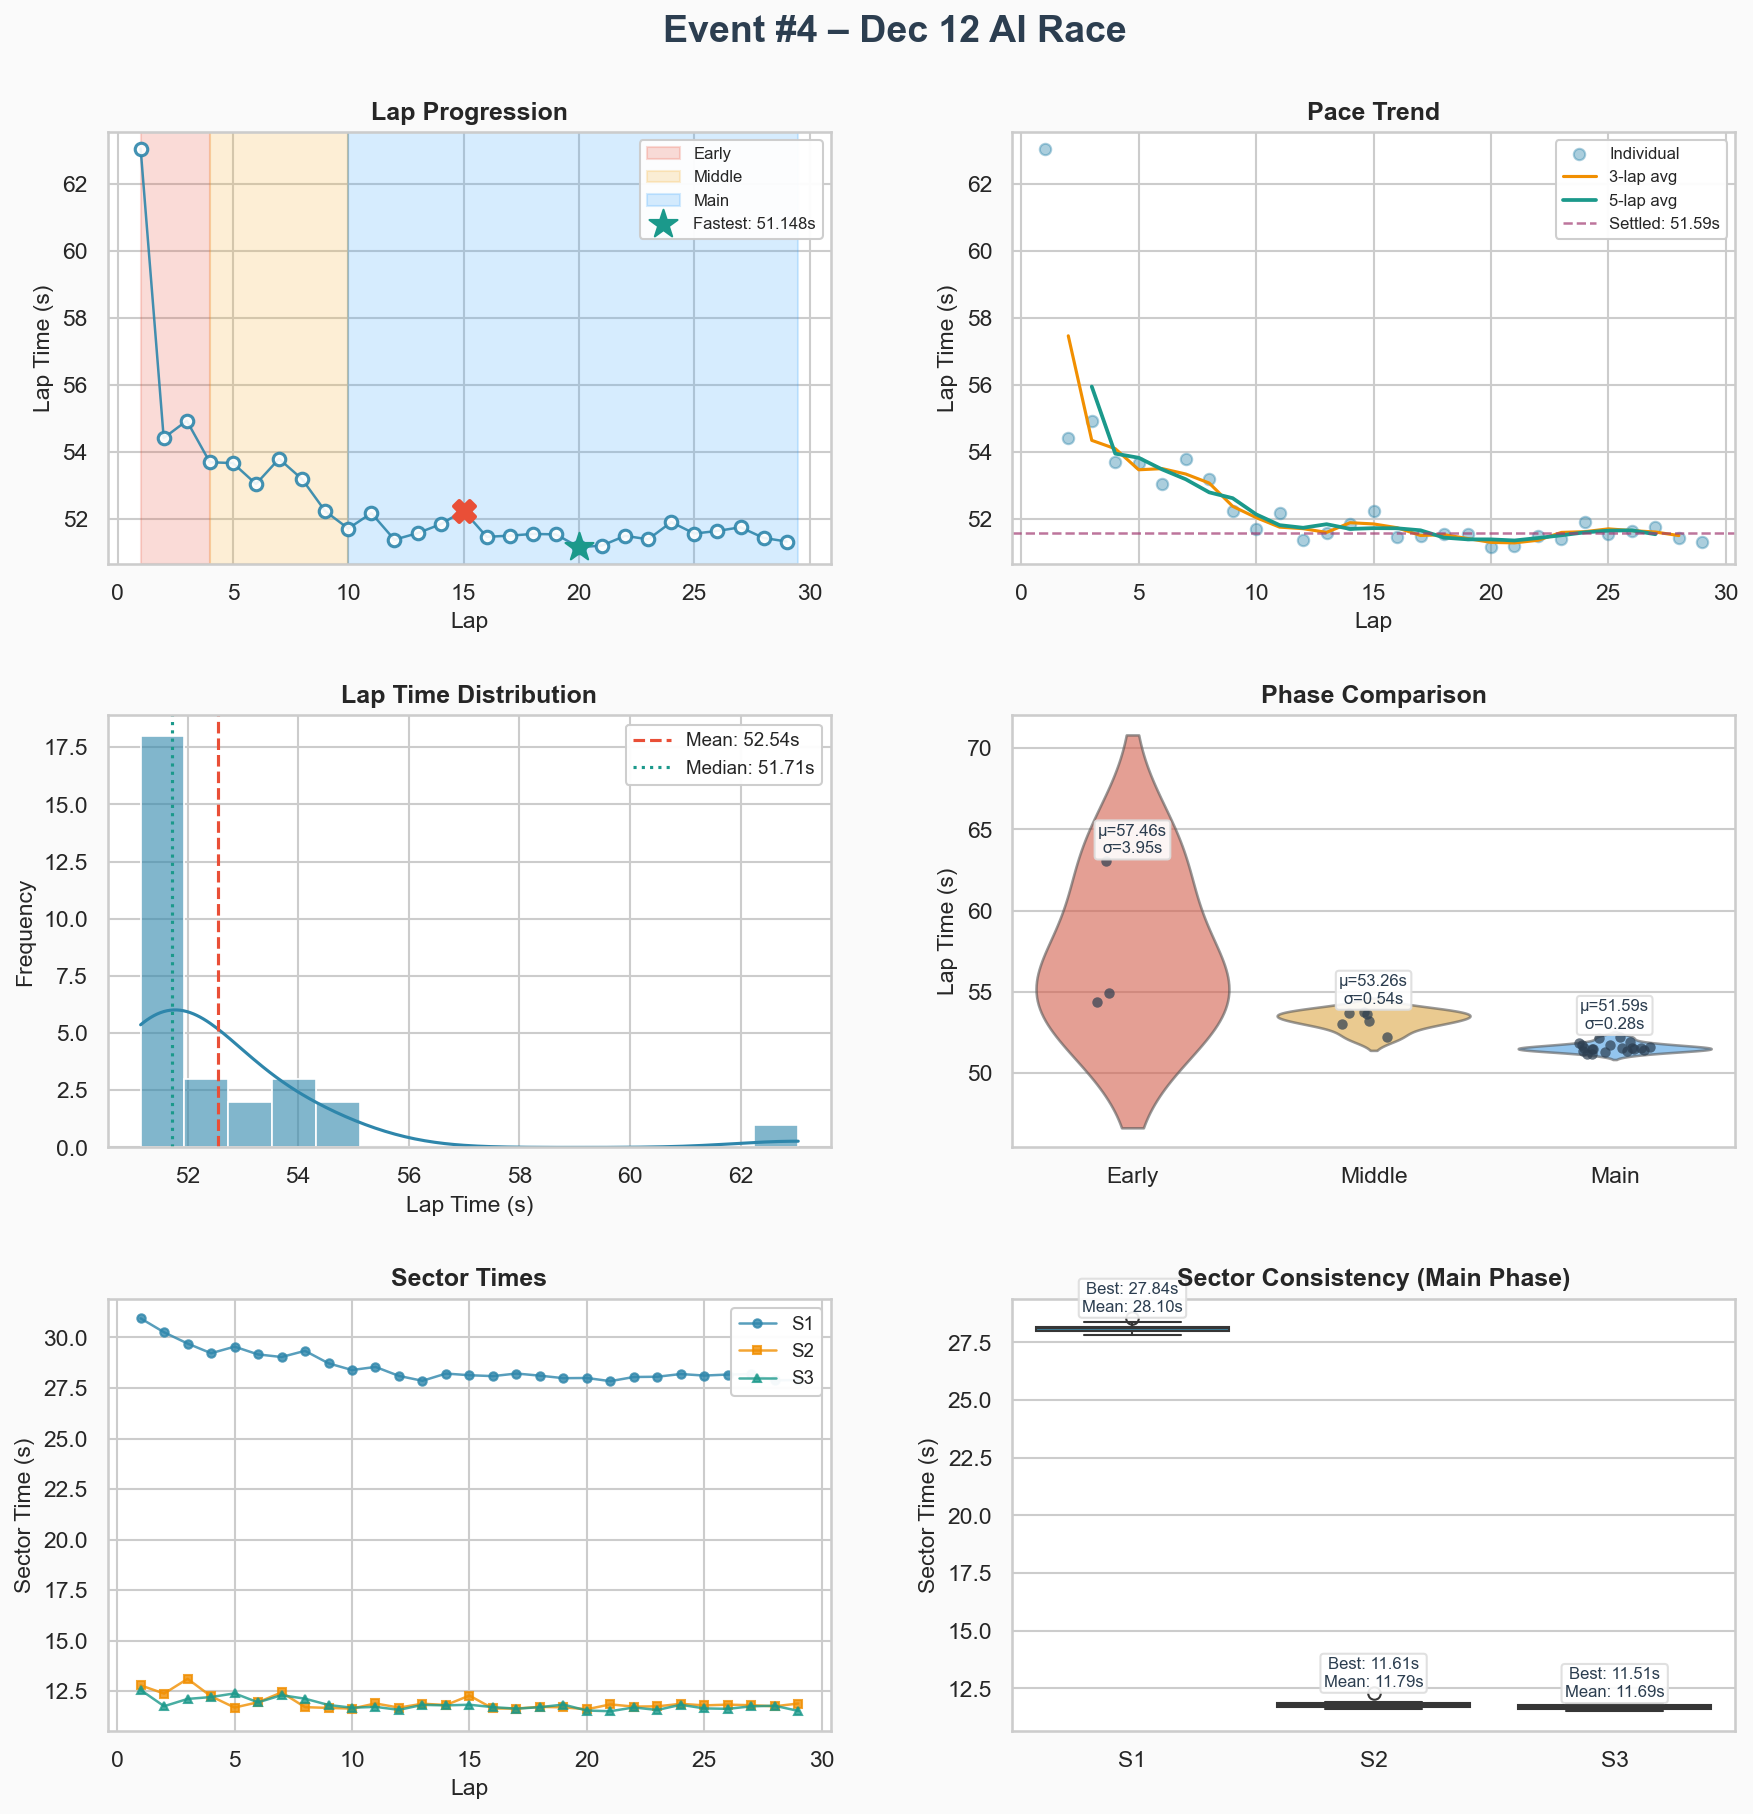
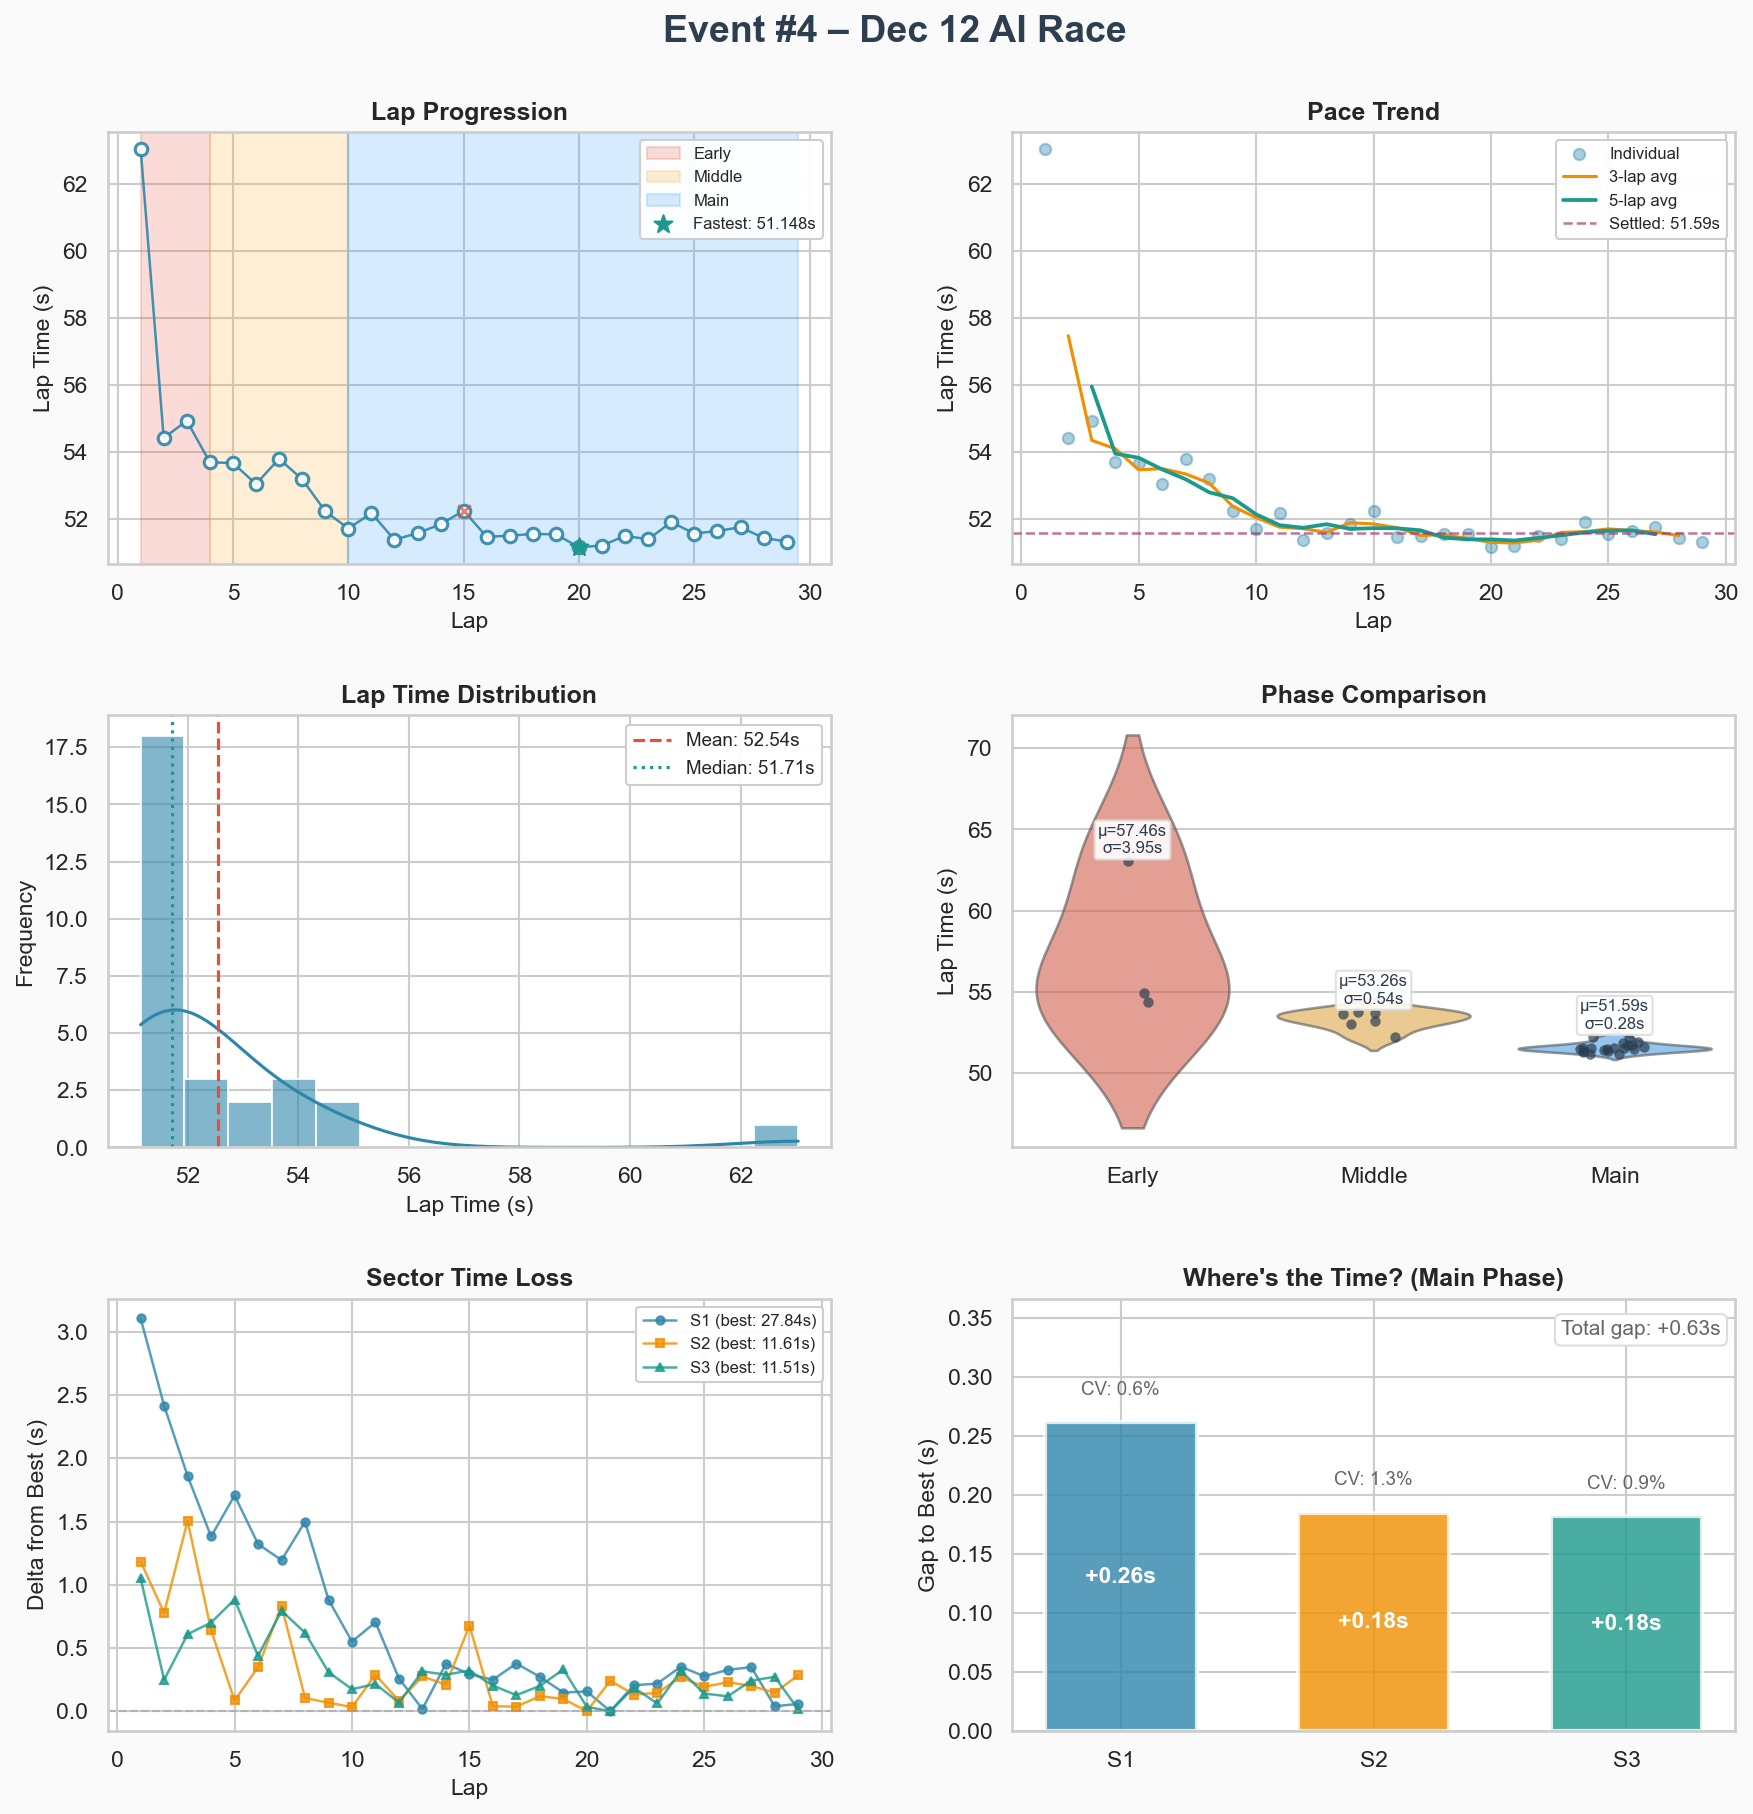
Enhance event visualization: refine lap highlighting for clarity, adjust sector analysis to display delta from best times, and improve sector consistency metrics with visual annotations. Update plot titles and labels for better understanding of performance insights.

diff --git a/tools/visualize_event.py b/tools/visualize_event.py
@@ -157,16 +157,16 @@ def create_event_visualization(
     ax1.plot(laps, times, 'o-', color=COLORS['primary'], linewidth=1.2, 
              markersize=6, markerfacecolor='white', markeredgewidth=1.5, alpha=0.9)
     
-    # Highlight fastest lap
+    # Highlight fastest lap (subtle)
     ax1.scatter([fastest_lap], [times[fastest_idx]], color=COLORS['fastest'], 
-               s=200, zorder=5, marker='*', label=f'Fastest: {times[fastest_idx]:.3f}s')
+               s=80, zorder=5, marker='*', label=f'Fastest: {times[fastest_idx]:.3f}s')
     
-    # Highlight dirty laps
+    # Highlight dirty/off-track laps (subtle)
     for lap in dirty_laps:
         idx = np.where(laps == lap)[0]
         if len(idx) > 0:
-            ax1.scatter([lap], [times[idx[0]]], color=COLORS['dirty'], s=100, 
-                       zorder=4, marker='X', linewidths=2)
+            ax1.scatter([lap], [times[idx[0]]], color=COLORS['dirty'], s=35, 
+                       zorder=4, marker='x', linewidths=1.5, alpha=0.7)
     
     ax1.set_xlabel('Lap', fontsize=11)
     ax1.set_ylabel('Lap Time (s)', fontsize=11)
@@ -265,51 +265,86 @@ def create_event_visualization(
     # PLOT 5 & 6: Sector Analysis (if available)
     # ═══════════════════════════════════════════════════════════════════════════
     if has_sectors:
-        # Sector times over laps
+        # Sector delta from best - all on same scale for comparison
         ax5 = fig.add_subplot(gs[2, 0])
         ax5.set_facecolor('#FFFFFF')
         
-        ax5.plot(laps, df['Sector 1'].values, 'o-', color=COLORS['s1'], 
-                linewidth=1.2, markersize=4, label='S1', alpha=0.8)
-        ax5.plot(laps, df['Sector 2'].values, 's-', color=COLORS['s2'], 
-                linewidth=1.2, markersize=4, label='S2', alpha=0.8)
-        ax5.plot(laps, df['Sector 3'].values, '^-', color=COLORS['s3'], 
-                linewidth=1.2, markersize=4, label='S3', alpha=0.8)
+        # Calculate delta from best for each sector
+        s1_best = df['Sector 1'].min()
+        s2_best = df['Sector 2'].min()
+        s3_best = df['Sector 3'].min()
+        
+        s1_delta = df['Sector 1'].values - s1_best
+        s2_delta = df['Sector 2'].values - s2_best
+        s3_delta = df['Sector 3'].values - s3_best
+        
+        ax5.plot(laps, s1_delta, 'o-', color=COLORS['s1'], 
+                linewidth=1.2, markersize=4, label=f'S1 (best: {s1_best:.2f}s)', alpha=0.8)
+        ax5.plot(laps, s2_delta, 's-', color=COLORS['s2'], 
+                linewidth=1.2, markersize=4, label=f'S2 (best: {s2_best:.2f}s)', alpha=0.8)
+        ax5.plot(laps, s3_delta, '^-', color=COLORS['s3'], 
+                linewidth=1.2, markersize=4, label=f'S3 (best: {s3_best:.2f}s)', alpha=0.8)
+        
+        # Add zero line (= personal best)
+        ax5.axhline(0, color='#999', linestyle='--', linewidth=1, alpha=0.5)
         
         ax5.set_xlabel('Lap', fontsize=11)
-        ax5.set_ylabel('Sector Time (s)', fontsize=11)
-        ax5.set_title('Sector Times', fontsize=12, fontweight='bold')
-        ax5.legend(loc='upper right', fontsize=9, framealpha=0.95)
+        ax5.set_ylabel('Delta from Best (s)', fontsize=11)
+        ax5.set_title('Sector Time Loss', fontsize=12, fontweight='bold')
+        ax5.legend(loc='upper right', fontsize=8, framealpha=0.95)
         
-        # Sector consistency (box plots)
+        # Sector Focus Analysis - "Where's the Time?"
         ax6 = fig.add_subplot(gs[2, 1])
         ax6.set_facecolor('#FFFFFF')
         
         # Use main phase for sector analysis
         main_df = df.iloc[middle_end:].copy() if middle_end < len(df) else df.copy()
         
-        sector_data = pd.DataFrame({
-            'Time': list(main_df['Sector 1']) + list(main_df['Sector 2']) + list(main_df['Sector 3']),
-            'Sector': ['S1'] * len(main_df) + ['S2'] * len(main_df) + ['S3'] * len(main_df)
-        })
+        # Calculate metrics for each sector
+        sectors = ['S1', 'S2', 'S3']
+        sector_cols = ['Sector 1', 'Sector 2', 'Sector 3']
         
-        sns.boxplot(data=sector_data, x='Sector', y='Time', hue='Sector',
-                   palette=[COLORS['s1'], COLORS['s2'], COLORS['s3']], 
-                   legend=False, ax=ax6)
+        gaps = []  # Mean - Best (time left on table)
+        cvs = []   # Coefficient of variation (normalized consistency)
         
-        # Add best sector times
-        for i, sector in enumerate(['Sector 1', 'Sector 2', 'Sector 3']):
-            best = main_df[sector].min()
-            mean = main_df[sector].mean()
-            ax6.annotate(f'Best: {best:.2f}s\nMean: {mean:.2f}s', 
-                        xy=(i, main_df[sector].max() + 0.3),
-                        ha='center', fontsize=8, color='#2C3E50',
-                        bbox=dict(boxstyle='round,pad=0.2', facecolor='white', 
-                                 edgecolor='#DDD', alpha=0.9))
+        for col in sector_cols:
+            best = main_df[col].min()
+            mean = main_df[col].mean()
+            std = main_df[col].std()
+            gaps.append(mean - best)
+            cvs.append((std / mean) * 100 if mean > 0 else 0)
         
+        # Create bar chart for gaps
+        x = np.arange(len(sectors))
+        colors = [COLORS['s1'], COLORS['s2'], COLORS['s3']]
+        
+        bars = ax6.bar(x, gaps, width=0.6, color=colors, alpha=0.8, edgecolor='white', linewidth=2)
+        
+        # Add labels on bars
+        for i, (bar, gap, cv) in enumerate(zip(bars, gaps, cvs)):
+            # Gap label inside bar
+            ax6.text(bar.get_x() + bar.get_width()/2, bar.get_height()/2,
+                    f'+{gap:.2f}s', ha='center', va='center', 
+                    fontsize=11, fontweight='bold', color='white')
+            
+            # CV label above bar
+            ax6.text(bar.get_x() + bar.get_width()/2, bar.get_height() + 0.02,
+                    f'CV: {cv:.1f}%', ha='center', va='bottom', 
+                    fontsize=9, color='#666')
+        
+        ax6.set_xticks(x)
+        ax6.set_xticklabels(sectors, fontsize=11)
         ax6.set_xlabel('', fontsize=11)
-        ax6.set_ylabel('Sector Time (s)', fontsize=11)
-        ax6.set_title('Sector Consistency (Main Phase)', fontsize=12, fontweight='bold')
+        ax6.set_ylabel('Gap to Best (s)', fontsize=11)
+        ax6.set_title("Where's the Time? (Main Phase)", fontsize=12, fontweight='bold')
+        ax6.set_ylim(0, max(gaps) * 1.4)
+        
+        # Add total gap annotation
+        total_gap = sum(gaps)
+        ax6.text(0.98, 0.95, f'Total gap: +{total_gap:.2f}s', 
+                transform=ax6.transAxes, ha='right', va='top',
+                fontsize=10, color='#666',
+                bbox=dict(boxstyle='round,pad=0.3', facecolor='white', edgecolor='#DDD'))
     
     # ═══════════════════════════════════════════════════════════════════════════
     # Finalize
@@ -321,7 +356,6 @@ def create_event_visualization(
                    facecolor='#FAFAFA', edgecolor='none')
         print(f"✅ Saved to: {output_path}")
     
-    plt.show()
     
     # Print summary stats
     print("\n" + "="*60)
